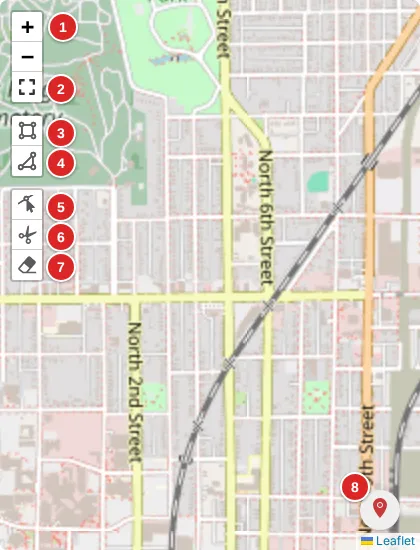
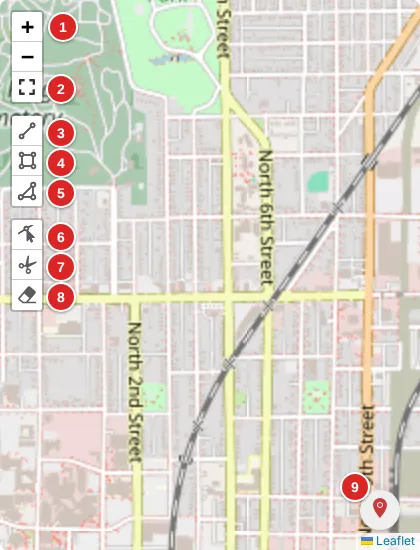
fix(maps): show drawn lines, keep polyline tool
Draw the lines and multi-part areas of a territory on the
assignment page, the shared page and the dashboard (UX-02),
and bring back Draw Polyline; Draw Text stays removed.

Changed region(s): [[0.0, 0.2782, 0.1857, 0.5873], [0.031, 0.2164, 0.0929, 0.2473], [0.8357, 0.8655, 0.8667, 0.8964]]

diff --git a/tests/Feature/TerritoryMapShapesTest.php b/tests/Feature/TerritoryMapShapesTest.php
@@ -1,0 +1,105 @@
+<?php
+
+use App\Filament\Resources\TerritoryAssignments\Pages\ViewTerritoryAssignment;
+use App\Filament\Widgets\TerritoryGlobalMap;
+use App\Models\Territory;
+use App\Models\TerritoryAssignment;
+use App\Models\TerritoryZone;
+use App\Models\User;
+use Filament\Facades\Filament;
+use Illuminate\Support\Facades\Notification;
+use Livewire\Livewire;
+use Spatie\Permission\Models\Permission;
+
+/*
+    The areas and the lines drawn on the map of a territory are shown wherever the territory is used: on the page of
+    its assignments (also the shared one) and on the dashboard map.
+*/
+
+beforeEach(function () {
+    Notification::fake();
+    Filament::setCurrentPanel('app');
+
+    User::factory()->create(['id' => 1]);
+
+    $this->user = User::factory()->create();
+    foreach (['ViewAny:Territory', 'View:TerritoryAssignment', 'ViewAny:TerritoryAssignment'] as $permission) {
+        $this->user->givePermissionTo(Permission::findOrCreate($permission, 'web'));
+    }
+    $this->actingAs($this->user);
+});
+
+/**
+ * A GeoJSON feature with the given geometry.
+ *
+ * @param  array<int, mixed>  $coordinates  [longitude, latitude] points, as GeoJSON has them
+ * @return array<string, mixed>
+ */
+function mapFeature(string $type, array $coordinates): array
+{
+    return ['type' => 'Feature', 'properties' => [], 'geometry' => ['type' => $type, 'coordinates' => $coordinates]];
+}
+
+/**
+ * A territory whose map has an area, a street to work and the point of an old text label.
+ */
+function territoryWithAreaAndLine(): Territory
+{
+    return Territory::factory()
+        ->for(TerritoryZone::factory()->create(['color' => '#ff0000']), 'territoryZone')
+        ->create(['geojson' => json_encode(['type' => 'FeatureCollection', 'features' => [
+            mapFeature('Polygon', [[[12.1, 41.1], [12.2, 41.1], [12.2, 41.2], [12.1, 41.1]]]),
+            mapFeature('LineString', [[12.1, 41.1], [12.3, 41.3]]),
+            mapFeature('Point', [12.15, 41.15]),
+        ]])]);
+}
+
+test('the shapes of a map are read with latitude and longitude swapped, points left out', function () {
+    $territory = new Territory(['geojson' => json_encode(['type' => 'FeatureCollection', 'features' => [
+        mapFeature('Polygon', [[[12.1, 41.1], [12.2, 41.1], [12.2, 41.2], [12.1, 41.1]]]),
+        mapFeature('MultiPolygon', [[[[13.1, 42.1], [13.2, 42.1], [13.1, 42.1]]], [[[14.1, 43.1], [14.2, 43.1], [14.1, 43.1]]]]),
+        mapFeature('LineString', [[12.1, 41.1], [12.3, 41.3]]),
+        mapFeature('MultiLineString', [[[15.1, 44.1], [15.2, 44.2]], [[16.1, 45.1], [16.2, 45.2]]]),
+        mapFeature('Point', [12.15, 41.15]),
+    ]])]);
+
+    expect($territory->getMapShapes())->toBe([
+        'areas' => [
+            [[[41.1, 12.1], [41.1, 12.2], [41.2, 12.2], [41.1, 12.1]]],
+            [[[42.1, 13.1], [42.1, 13.2], [42.1, 13.1]]],
+            [[[43.1, 14.1], [43.1, 14.2], [43.1, 14.1]]],
+        ],
+        'lines' => [
+            [[41.1, 12.1], [41.3, 12.3]],
+            [[44.1, 15.1], [44.2, 15.2]],
+            [[45.1, 16.1], [45.2, 16.2]],
+        ],
+    ]);
+});
+
+test('a territory without a map has no shapes', function () {
+    expect((new Territory)->getMapShapes())->toBe(['areas' => [], 'lines' => []]);
+});
+
+test('the dashboard map draws the areas and the lines of the territories', function () {
+    territoryWithAreaAndLine();
+
+    $layers = collect(Livewire::test(TerritoryGlobalMap::class)->instance()->getMapData()['layersData']);
+
+    expect($layers->pluck('type')->all())->toBe(['polygon', 'polyline'])
+        ->and($layers->last()['points'])->toBe([[41.1, 12.1], [41.3, 12.3]]);
+});
+
+test('the page of an assignment draws the areas and the lines of its territory', function () {
+    $assignment = TerritoryAssignment::factory()->create([
+        'territory_id' => territoryWithAreaAndLine()->id,
+        'assignee_id' => $this->user->id,
+        'ended_at' => null,
+    ]);
+
+    // The layers of the map are in the JSON of the page, each with an id made of its type and a hash
+    $html = Livewire::test(ViewTerritoryAssignment::class, ['record' => $assignment->id])->html();
+
+    expect(preg_match_all('/polygon-[0-9a-f]{32}/', $html))->toBe(1)
+        ->and(preg_match_all('/polyline-[0-9a-f]{32}/', $html))->toBe(1);
+});

diff --git a/app/Filament/Resources/TerritoryAssignments/TerritoryAssignmentResource.php b/app/Filament/Resources/TerritoryAssignments/TerritoryAssignmentResource.php
@@ -16,6 +16,7 @@ use Carbon\CarbonInterval;
 use EduardoRibeiroDev\FilamentLeaflet\Enums\TileLayer;
 use EduardoRibeiroDev\FilamentLeaflet\Infolists\MapEntry;
 use EduardoRibeiroDev\FilamentLeaflet\Layers\Shapes\Polygon;
+use EduardoRibeiroDev\FilamentLeaflet\Layers\Shapes\Polyline;
 use Filament\Actions\Action;
 use Filament\Actions\BulkActionGroup;
 use Filament\Actions\DeleteAction;
@@ -322,31 +323,19 @@ class TerritoryAssignmentResource extends Resource
                                                 'Google Satellite' => TileLayer::GoogleSatellite,
                                                 'Google Hybrid' => TileLayer::GoogleHybrid,
                                             ])
-                                            ->shapes(function ($record): array {
+                                            ->shapes(function (TerritoryAssignment $record): array {
                                                 $territory = $record->territory;
-                                                $geojson = json_decode($territory->geojson, true);
+                                                $color = $territory->territoryZone?->color;
+                                                $mapShapes = $territory->getMapShapes();
 
-                                                $polygons = [];
-                                                foreach ($geojson['features'] as $feature) {
-                                                    if ($feature['geometry']['type'] != 'Polygon') {
-                                                        continue;
-                                                    }
-
-                                                    // The first two elements are longitude and latitude, but we need latitude and longitude
-                                                    // Swap all the coordinates
-                                                    $coords_lat_long = array_map(function ($coord) {
-                                                        return array_map(function ($c) {
-                                                            return [$c[1], $c[0]];
-                                                        }, $coord);
-                                                    }, $feature['geometry']['coordinates']);
-
-                                                    $popup = '';
-                                                    $polygons[] = Polygon::make($coords_lat_long)
-                                                        ->fillColor($territory->territoryZone->color)
-                                                        ->fillOpacity(0.3);
-                                                }
-
-                                                return $polygons;
+                                                return [
+                                                    ...array_map(fn (array $rings): Polygon => Polygon::make($rings)
+                                                        ->fillColor($color)
+                                                        ->fillOpacity(0.3), $mapShapes['areas']),
+                                                    ...array_map(fn (array $points): Polyline => Polyline::make($points)
+                                                        ->color($color)
+                                                        ->weight(5), $mapShapes['lines']),
+                                                ];
                                             }),
                                     ]),
                                 Tab::make('TabImage')

diff --git a/app/Filament/Widgets/TerritoryGlobalMap.php b/app/Filament/Widgets/TerritoryGlobalMap.php
@@ -12,6 +12,7 @@ use Closure;
 use EduardoRibeiroDev\FilamentLeaflet\Enums\TileLayer;
 use EduardoRibeiroDev\FilamentLeaflet\Layers\BaseLayer;
 use EduardoRibeiroDev\FilamentLeaflet\Layers\Shapes\Polygon;
+use EduardoRibeiroDev\FilamentLeaflet\Layers\Shapes\Polyline;
 use EduardoRibeiroDev\FilamentLeaflet\Widgets\MapWidget;
 use Filament\Support\Colors\Color;
 use Illuminate\Database\Eloquent\Builder;
@@ -220,12 +221,15 @@ class TerritoryGlobalMap extends MapWidget
             $color = $category?->getColor() ?? ($territory->territoryZone?->color ?: null);
             $popupContent = $this->getTerritoryPopupContent($territory, $category);
 
-            foreach ($this->getTerritoryPolygons($territory) as $index => $coordinates) {
-                $polygons[] = Polygon::make($coordinates)
-                    // The map only redraws the polygons whose id changed, so the id must change with their look
+            $mapShapes = $territory->getMapShapes();
+
+            foreach ([...$mapShapes['areas'], ...$mapShapes['lines']] as $index => $coordinates) {
+                $isArea = $index < count($mapShapes['areas']);
+
+                $polygons[] = ($isArea ? Polygon::make($coordinates)->fillColor($color) : Polyline::make($coordinates)->weight(5))
+                    // The map only redraws the shapes whose id changed, so the id must change with their look
                     ->id(sprintf('territory-%d-%d-%s', $territory->id, $index, md5(json_encode([$color, $popupContent, $coordinates]))))
                     ->color($color)
-                    ->fillColor($color)
                     ->title(e($territory->name))
                     ->popupContent($popupContent)
                     // The layers control shows the group names as HTML
@@ -320,32 +324,6 @@ class TerritoryGlobalMap extends MapWidget
         }
 
         return implode('<br>', $lines);
-    }
-
-    /**
-     * Get the polygons of the map of a territory, as lists of rings of [latitude, longitude] points.
-     *
-     * @return list<list<list<array{0: float, 1: float}>>>
-     */
-    protected function getTerritoryPolygons(Territory $territory): array
-    {
-        $geojson = json_decode($territory->geojson, true);
-
-        $polygons = [];
-
-        foreach ($geojson['features'] ?? [] as $feature) {
-            if (($feature['geometry']['type'] ?? null) !== 'Polygon') {
-                continue;
-            }
-
-            // GeoJSON points are [longitude, latitude], while Leaflet expects [latitude, longitude]
-            $polygons[] = array_map(
-                fn (array $ring): array => array_map(fn (array $point): array => [$point[1], $point[0]], $ring),
-                $feature['geometry']['coordinates'],
-            );
-        }
-
-        return $polygons;
     }
 
     /**

diff --git a/app/Models/Territory.php b/app/Models/Territory.php
@@ -179,4 +179,33 @@ class Territory extends Model
             },
         );
     }
+
+    /**
+     * Get the shapes drawn on the map of the territory, with [latitude, longitude] points as Leaflet expects them
+     * (GeoJSON points are [longitude, latitude]): the areas (`Polygon` and `MultiPolygon` features, each a list of
+     * rings, the first being the outline and the others its holes) and the lines (`LineString` and `MultiLineString`).
+     * Other features, such as the points of old text labels, are left out.
+     *
+     * @return array{areas: list<list<list<array{0: float, 1: float}>>>, lines: list<list<array{0: float, 1: float}>>}
+     */
+    public function getMapShapes(): array
+    {
+        $geojson = json_decode((string) $this->geojson, true);
+        $toLatLng = fn (array $points): array => array_map(fn (array $point): array => [$point[1], $point[0]], $points);
+        $shapes = ['areas' => [], 'lines' => []];
+
+        foreach ($geojson['features'] ?? [] as $feature) {
+            $coordinates = $feature['geometry']['coordinates'] ?? [];
+
+            match ($feature['geometry']['type'] ?? null) {
+                'Polygon' => $shapes['areas'][] = array_map($toLatLng, $coordinates),
+                'MultiPolygon' => array_push($shapes['areas'], ...array_map(fn (array $polygon): array => array_map($toLatLng, $polygon), $coordinates)),
+                'LineString' => $shapes['lines'][] = $toLatLng($coordinates),
+                'MultiLineString' => array_push($shapes['lines'], ...array_map($toLatLng, $coordinates)),
+                default => null,
+            };
+        }
+
+        return $shapes;
+    }
 }

diff --git a/app/Filament/Resources/Territories/TerritoryResource.php b/app/Filament/Resources/Territories/TerritoryResource.php
@@ -261,12 +261,12 @@ class TerritoryResource extends Resource implements HasKnowledgeBase
                                             ->clickable(false) // click to move marker
                                             ->drawMarker(false)
                                             ->drawPolygon($schema->getOperation() !== 'view')
-                                            // Only areas are shown where the territory is used (assignment, shared page, dashboard):
-                                            // lines and text labels would be visible in the territory form only (UX-02)
-                                            ->drawPolyline(false)
+                                            ->drawPolyline($schema->getOperation() !== 'view')
                                             ->drawCircle(false)
                                             ->drawCircleMarker(false)
                                             ->dragMode(false)
+                                            // Text labels are not shown where the territory is used (assignment, shared page,
+                                            // dashboard), which draw only its areas and lines (see `Territory::getMapShapes()`)
                                             ->drawText(false)
                                             ->drawRectangle($schema->getOperation() !== 'view')
                                             ->cutPolygon($schema->getOperation() !== 'view')

diff --git a/tests/Feature/TerritoryFormTest.php b/tests/Feature/TerritoryFormTest.php
@@ -424,14 +424,14 @@ test('the image preview of the form shows a newly uploaded image only when it ca
     'not previewable' => false,
 ]);
 
-test('the map offers only the tools that draw areas', function () {
-    // Lines and text labels are not shown where the territory is used (assignment, shared page, dashboard)
+test('the map offers the tools that draw areas and lines, but not text labels', function () {
+    // Text labels are not shown where the territory is used (assignment, shared page, dashboard)
     Livewire::test(CreateTerritory::class)
         ->assertSchemaComponentExists('location', 'form', checkComponentUsing: function (Map $map): bool {
             $tools = json_decode($map->getMapConfig(), true)['geoMan'];
 
-            return $tools['drawPolygon'] && $tools['drawRectangle'] && $tools['cutPolygon']
-                && ! $tools['drawPolyline'] && ! $tools['drawText'];
+            return $tools['drawPolygon'] && $tools['drawRectangle'] && $tools['cutPolygon'] && $tools['drawPolyline']
+                && ! $tools['drawText'];
         });
 });
 

diff --git a/docs/user-documentation/it/territories/maps.md b/docs/user-documentation/it/territories/maps.md
@@ -24,15 +24,16 @@ territorio:
 
 1. **Zoom avanti / indietro**.
 2. **Schermo intero**: ingrandisce la mappa, comodo per disegnare territori grandi.
-3. **Draw Rectangle**: clicca e trascina per disegnare un rettangolo.
-4. **Draw Polygons**: lo strumento usato per la maggior parte dei territori (vedi sotto).
-5. **Edit Layers**: trascina i vertici delle forme esistenti per correggerle.
-6. **Cut Layers**: disegna una forma per ritagliarla da una esistente (es. per escludere un parco).
-7. **Remove Layers**: clicca una forma per eliminarla.
+3. **Draw Polyline**: disegna una linea (es. una via da lavorare).
+4. **Draw Rectangle**: clicca e trascina per disegnare un rettangolo.
+5. **Draw Polygons**: lo strumento usato per la maggior parte dei territori (vedi sotto).
+6. **Edit Layers**: trascina i vertici delle forme esistenti per correggerle.
+7. **Cut Layers**: disegna una forma per ritagliarla da una esistente (es. per escludere un parco).
+8. **Remove Layers**: clicca una forma per eliminarla.
 
 ## Disegnare un poligono
 
-1. Clicca **Draw Polygons** (4).
+1. Clicca **Draw Polygons** (5).
 2. Clicca sulla mappa per posizionare il primo vertice, poi clicca su ogni angolo del territorio, seguendo le strade.
 3. Per chiudere la forma clicca di nuovo il primo vertice, oppure clicca **Finish**. **Remove Last Vertex** annulla
    l'ultimo clic, **Cancel** scarta la forma.
@@ -43,10 +44,10 @@ territorio:
 > 💡 **Suggerimento:** aumenta lo zoom prima di disegnare, così i vertici seguono le strade con precisione. Puoi sempre
 > correggerli in seguito con **Edit Layers**.
 
-> ℹ **Nota:** sulla mappa si disegnano solo aree (poligoni e rettangoli), le forme mostrate ovunque il territorio viene
-> usato: nella pagina dell'assegnazione, nella pagina pubblica di un'[assegnazione condivisa](../assignments/sharing) e
-> nella mappa della [dashboard](../basics/dashboard). Linee e testi disegnati con le versioni precedenti si vedono solo
-> nella mappa del territorio stesso: eliminali con **Remove Layers** e scrivi le indicazioni nelle **Note**.
+> ℹ **Nota:** le aree e le linee vengono mostrate ovunque il territorio viene usato: nella pagina dell'assegnazione,
+> nella pagina pubblica di un'[assegnazione condivisa](../assignments/sharing) e nella mappa della
+> [dashboard](../basics/dashboard). I testi disegnati con le versioni precedenti si vedono solo nella mappa del
+> territorio stesso: eliminali con **Remove Layers** e scrivi le indicazioni nelle **Note**.
 
 Le forme disegnate vengono salvate in formato GeoJSON (mostrato nel campo **Geojson** sotto la mappa). Se hai molte
 mappe già pronte, puoi caricarle tutte insieme con l'[importazione](importing), che accetta una colonna GeoJSON.

diff --git a/docs/user-documentation/en/territories/maps.md b/docs/user-documentation/en/territories/maps.md
@@ -23,15 +23,16 @@ territory from the **Territories** tab of a [zone](zones)), or on the **Default 
 
 1. **Zoom in / zoom out**.
 2. **Full screen**: enlarges the map, handy when drawing large territories.
-3. **Draw Rectangle**: click and drag to draw a rectangle.
-4. **Draw Polygons**: the tool used for most territories (see below).
-5. **Edit Layers**: drag the vertices of the existing shapes to fix them.
-6. **Cut Layers**: draw a shape to cut it out of an existing one (e.g. to exclude a park).
-7. **Remove Layers**: click a shape to delete it.
+3. **Draw Polyline**: draws a line (e.g. a street to work).
+4. **Draw Rectangle**: click and drag to draw a rectangle.
+5. **Draw Polygons**: the tool used for most territories (see below).
+6. **Edit Layers**: drag the vertices of the existing shapes to fix them.
+7. **Cut Layers**: draw a shape to cut it out of an existing one (e.g. to exclude a park).
+8. **Remove Layers**: click a shape to delete it.
 
 ## Drawing a polygon
 
-1. Click **Draw Polygons** (4).
+1. Click **Draw Polygons** (5).
 2. Click on the map to place the first vertex, then click on each corner of the territory, following the streets.
 3. To close the shape click the first vertex again, or click **Finish**. **Remove Last Vertex** undoes the last click,
    **Cancel** discards the shape.
@@ -42,10 +43,10 @@ territory from the **Territories** tab of a [zone](zones)), or on the **Default 
 > 💡 **Tip:** zoom in before drawing, so that the vertices follow the streets precisely. You can always fix them later
 > with **Edit Layers**.
 
-> ℹ **Note:** the map has only areas (polygons and rectangles), the shapes shown wherever the territory is used: on
-> the assignment page, on the public page of a [shared assignment](../assignments/sharing) and on the
-> [dashboard](../basics/dashboard) map. Lines and text labels drawn with earlier versions are shown only in the map of
-> the territory itself: remove them with **Remove Layers**, and write the directions in the **Notes** instead.
+> ℹ **Note:** the areas and the lines are shown wherever the territory is used: on the assignment page, on the public
+> page of a [shared assignment](../assignments/sharing) and on the [dashboard](../basics/dashboard) map. Text labels
+> drawn with earlier versions are shown only in the map of the territory itself: remove them with **Remove Layers**,
+> and write the directions in the **Notes** instead.
 
 The drawn shapes are stored in GeoJSON format (shown in the **Geojson** field below the map). Territories with many
 existing maps can also be loaded in one go with the [import](importing), which accepts a GeoJSON column.

diff --git a/CHANGELOG.md b/CHANGELOG.md
@@ -46,8 +46,9 @@ and this project adheres to [Semantic Versioning](https://semver.org/spec/v2.0.0
 - **Territories**: **Assign Massively** and **End Assignments** tell how many territories were assigned or returned
   and which were skipped, and why (already assigned, not assigned, not allowed or refused); they were skipped
   silently.
-- **Territory maps**: the **Draw Polyline** and **Draw Text** tools are removed: lines and text labels were saved but
-  shown only on the territory's own map, never on the assignment page, the shared page or the dashboard.
+- **Territory maps**: the lines drawn on the map of a territory (e.g. a street to work) are now shown on the assignment
+  page, on the shared page and on the dashboard, as are the areas split in two with **Cut Layers**; they were shown
+  only on the territory's own map. The **Draw Text** tool is removed, since its labels could not be shown there either.
 - **Tags**: deleting a tag asks for a confirmation that says how many territories and zones use it, since it is
   removed from all of them; it was removed silently, while the guide said that a tag in use could not be deleted.
 - **Roles**: no longer have a **Pages** tab, whose permissions did nothing: the profile is open to everyone, the

diff --git a/docs/user-documentation/it/territories/creating.md b/docs/user-documentation/it/territories/creating.md
@@ -31,7 +31,7 @@ Un territorio può essere descritto in due modi, che possono coesistere:
 | | **Mappa** | **Immagine** |
 |-|-----------|--------------|
 | Cos'è | Una forma disegnata su una mappa interattiva di OpenStreetMap | Un'immagine, es. la foto o la scansione della cartolina cartacea |
-| Mostrata nella [dashboard](../basics/dashboard) | Sì, per i territori residenziali (solo le aree, vedi [Disegnare le mappe](maps)) | No |
+| Mostrata nella [dashboard](../basics/dashboard) | Sì, per i territori residenziali (aree e linee, vedi [Disegnare le mappe](maps)) | No |
 | Si può ingrandire e usare per orientarsi | Sì | No |
 | Ideale per | I nuovi territori | I territori provenienti dal registro cartaceo |
 

diff --git a/docs/user-documentation/en/territories/creating.md b/docs/user-documentation/en/territories/creating.md
@@ -31,7 +31,7 @@ A territory can be described in two ways, and they can coexist:
 | | **Map** | **Image** |
 |-|---------|-----------|
 | What it is | A shape drawn on an interactive OpenStreetMap map | A picture, e.g. a photo or scan of the paper territory card |
-| Shown on the [dashboard](../basics/dashboard) | Yes, for residential territories (only the areas, see [Drawing maps](maps)) | No |
+| Shown on the [dashboard](../basics/dashboard) | Yes, for residential territories (areas and lines, see [Drawing maps](maps)) | No |
 | Can be zoomed and used to navigate | Yes | No |
 | Best for | New territories | Territories coming from the paper register |
 
